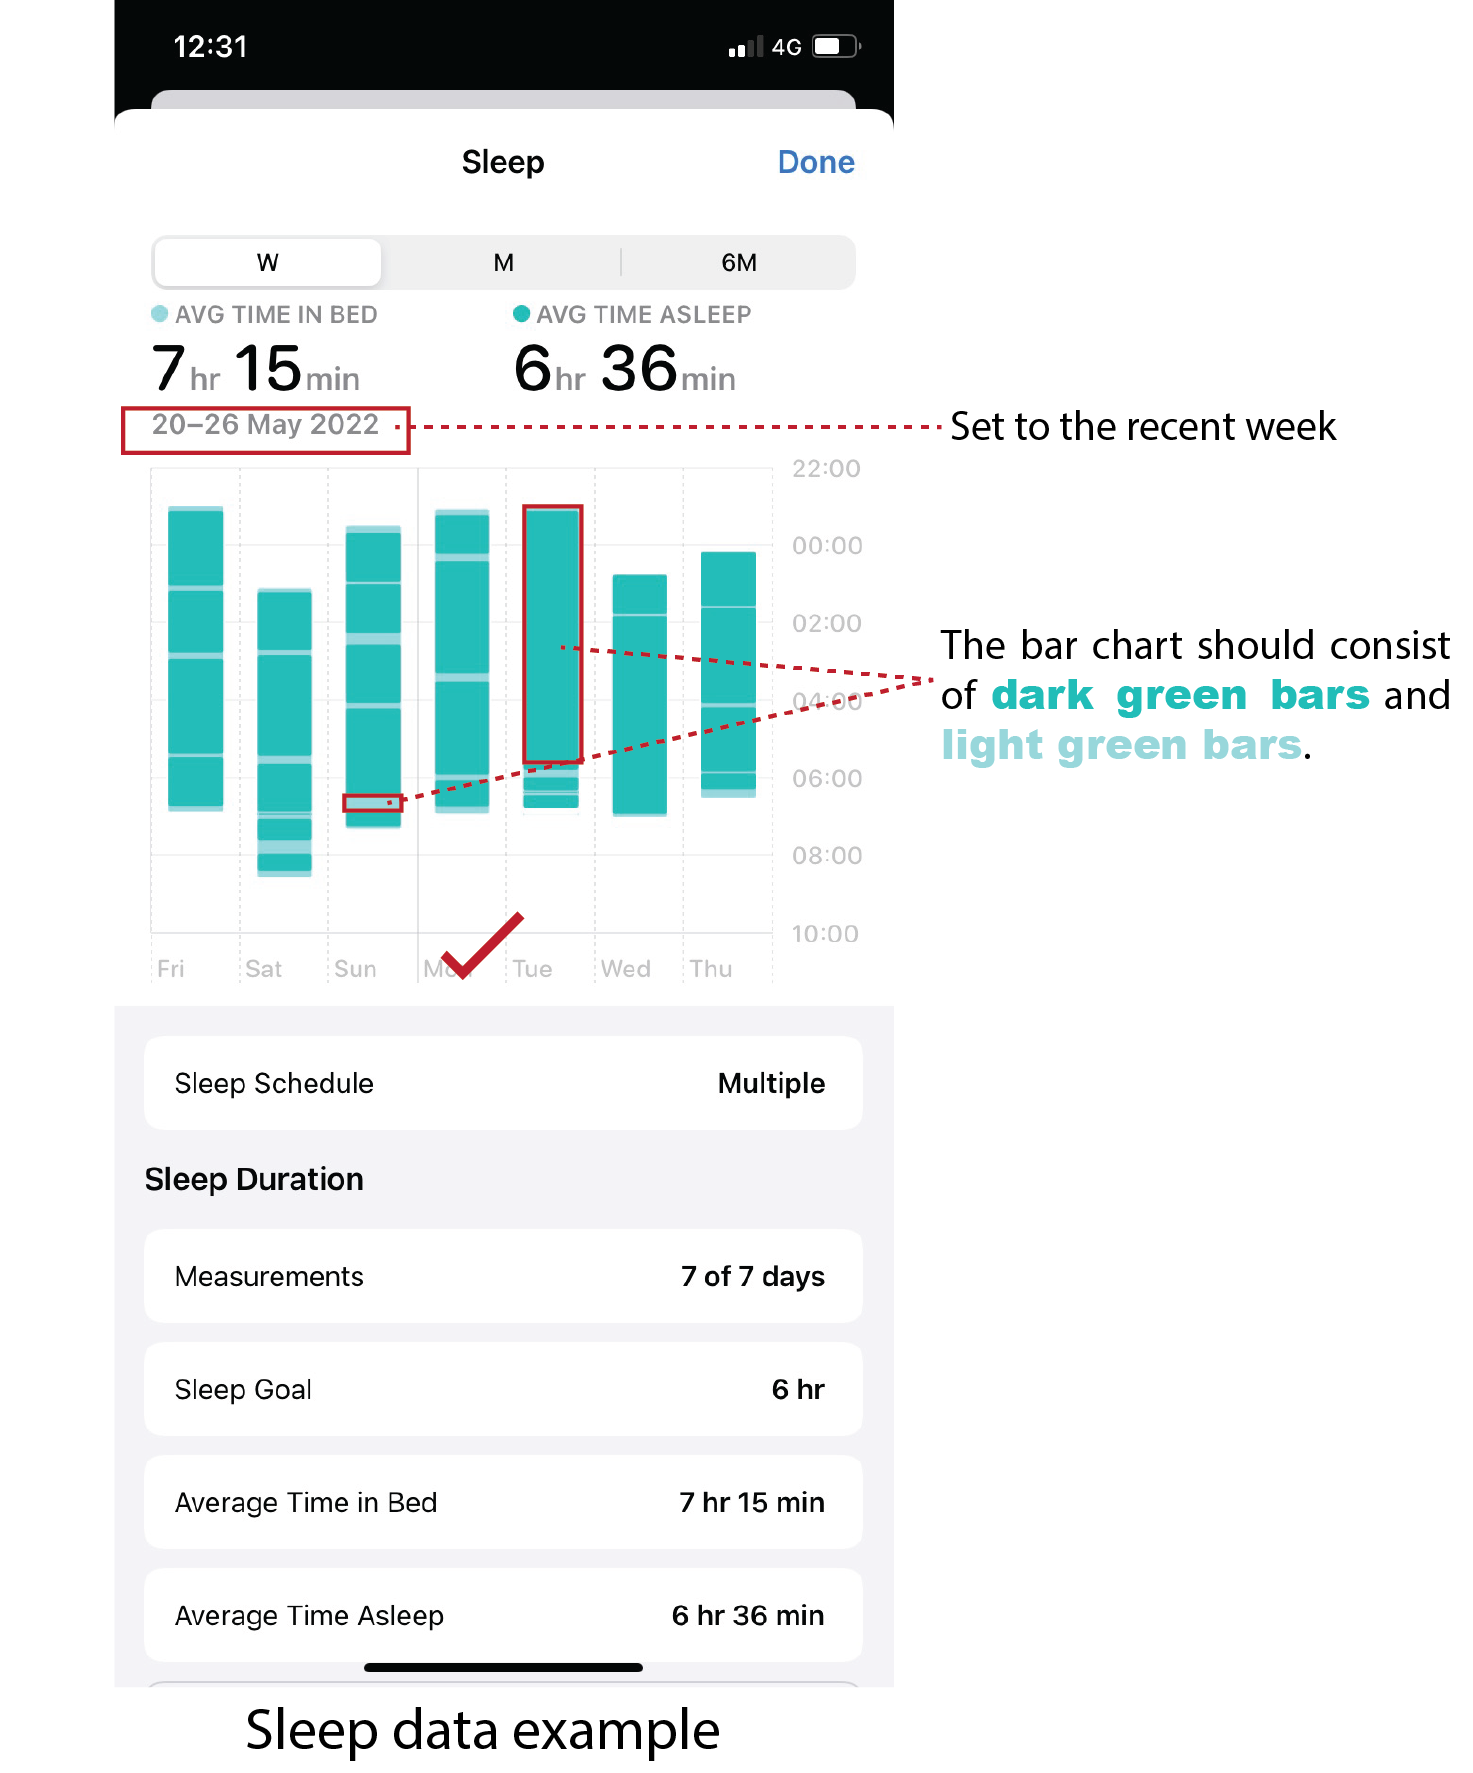
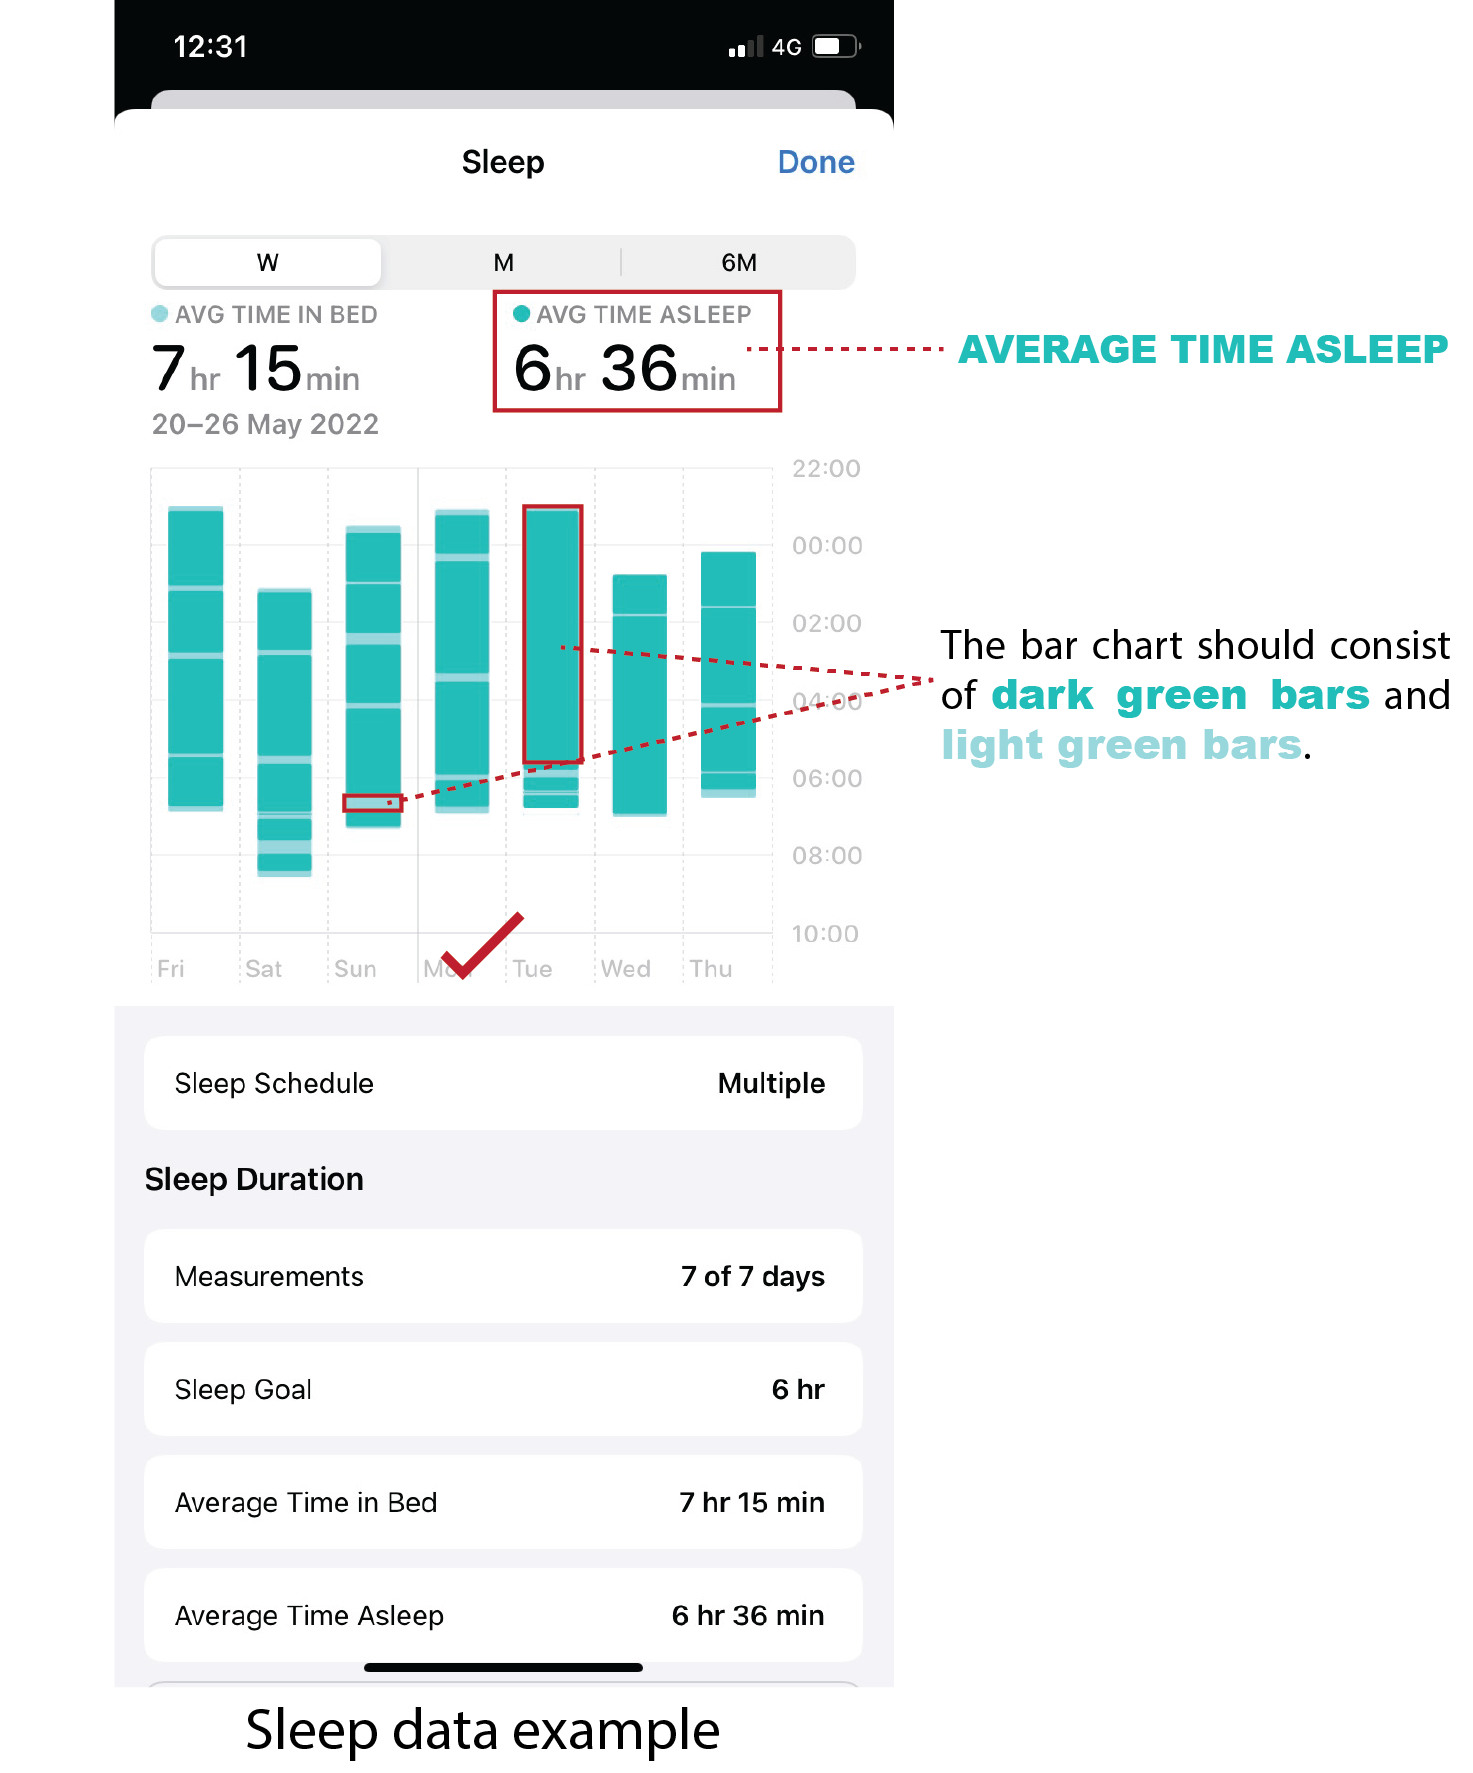
update dp instruction

Changed region(s): [[0.6558, 0.1861, 0.9993, 0.2482], [0.3123, 0.1551, 0.5309, 0.2482], [0.2498, 0.2171, 0.2811, 0.2792]]

diff --git a/data_provider/templates/informed_consent_data_provider.html b/data_provider/templates/informed_consent_data_provider.html
@@ -22,8 +22,8 @@
       you have Apple sleep data of <b> the entire past week;</b>
     </li>
     <li>
-      you use a <b>wearable device</b> (e.g., Apple Watch, Garmin watch) to collect sleep data, which helps you generate a bar chart with <b>different shades of green</b> according to your sleep pattern (see example on the screenshot below);
-    </li>
+      you collected <b>AVERAGE TIME ALEEP</b> data using a wearable device (e.g., Apple Watch, Garmin watch) to collect sleep data, which helps you generate a bar chart with <b>TWO GREEN SHADOWS</b> according to your sleep pattern (see example on the screenshot below on the right);
+      </li>
     <li>
       you are over 18 years old;
     </li>

diff --git a/data_provider/templates/index_data_provider.html b/data_provider/templates/index_data_provider.html
@@ -18,7 +18,7 @@
     you have Apple sleep data of <b> the entire past week;</b>
   </li>
   <li>
-    you use a <b>wearable device</b> (e.g., Apple Watch, Garmin watch) to collect sleep data, which helps you generate a bar chart with <b>different shades of green</b> according to your sleep pattern (see example on the screenshot below on the right);
+    you collected <b>AVERAGE TIME ALEEP</b> data using a wearable device (e.g., Apple Watch, Garmin watch) to collect sleep data, which helps you generate a bar chart with <b>TWO GREEN SHADOWS</b> according to your sleep pattern (see example on the screenshot below on the right);
   </li>
   <li>
     You are over 18 years old;

diff --git a/data_provider/templates/thanks.html b/data_provider/templates/thanks.html
@@ -10,7 +10,7 @@
 {% block content %}
 
 <div style="text-align: center;">
-  <a href="https://app.prolific.co/submissions/complete?cc=104BC137">Back to Prolific! </a>
+  <a href="https://app.prolific.co/submissions/complete?cc=104BC137">Click here to complete the task! </a>
 </div>
 
 {% endblock %}

diff --git a/extract.py b/extract.py
@@ -122,8 +122,8 @@ def merge_sleep_data(thing:Thing, from_ts, to_ts):
 
 thing_annotator = Thing()
 thing_annotator.describe()
-merge_sleep_data(thing_annotator, "2022-04-01 00:00:00", "2022-06-30 00:00:00")
-download_media(thing_annotator, "Sleep data Screenshot", "2022-04-01 00:00:00", "2022-06-30 00:00:00")
+merge_sleep_data(thing_annotator, "2022-06-20 00:00:00", "2022-06-23 00:00:00")
+download_media(thing_annotator, "Sleep data Screenshot", "2022-06-20 00:00:00", "2022-06-23 00:00:00")
 
 # merge_strava(thing_annotator, "2022-01-01 00:00:00", "2022-02-18 00:00:00")
 
